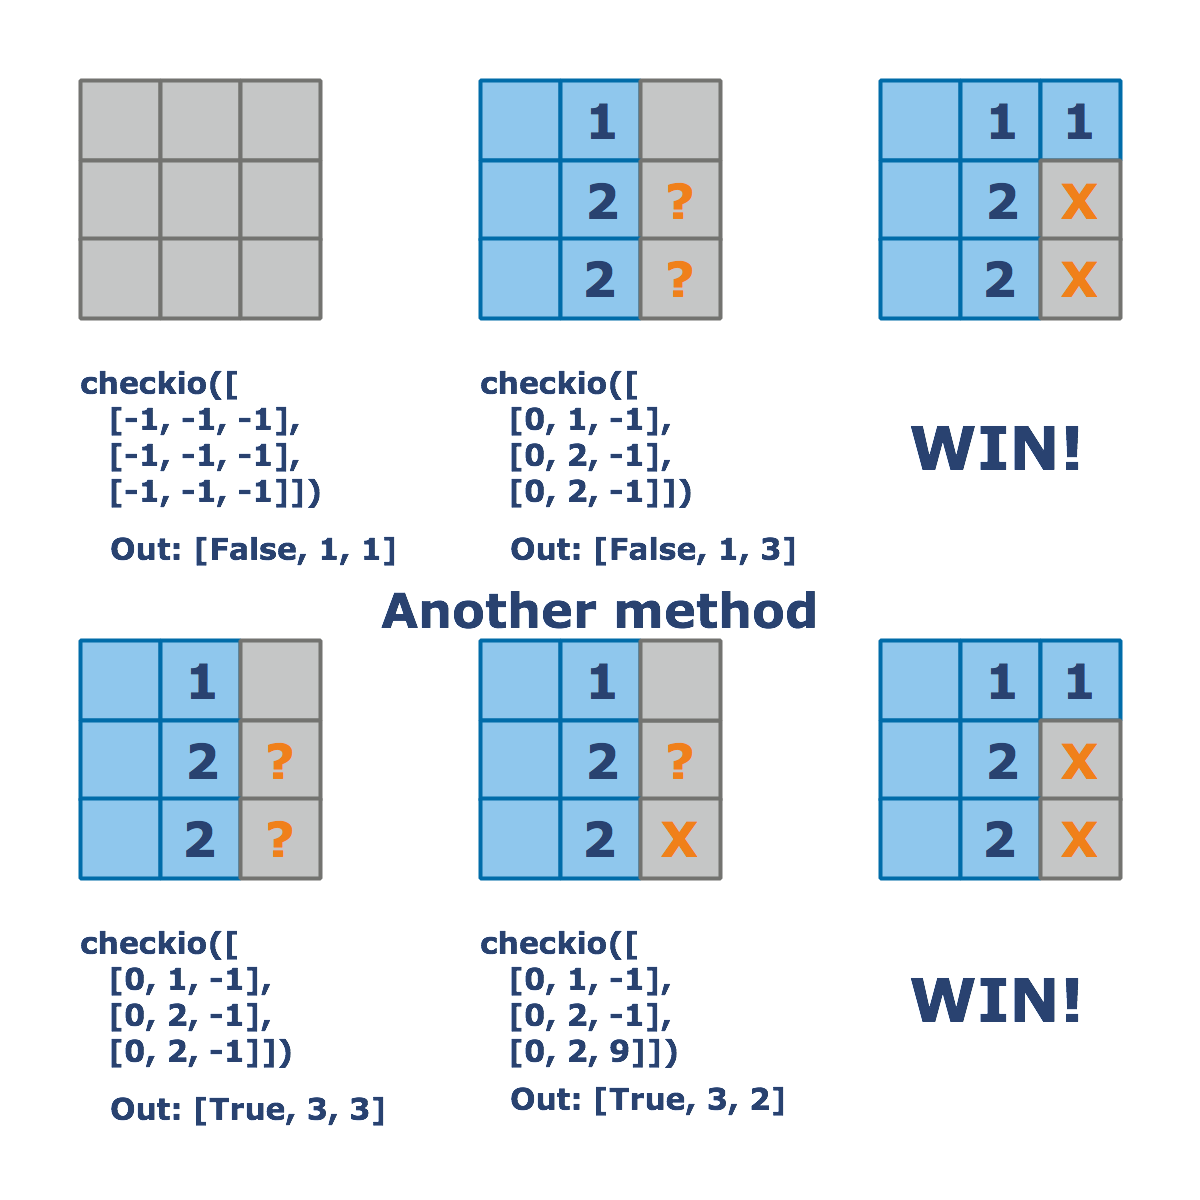
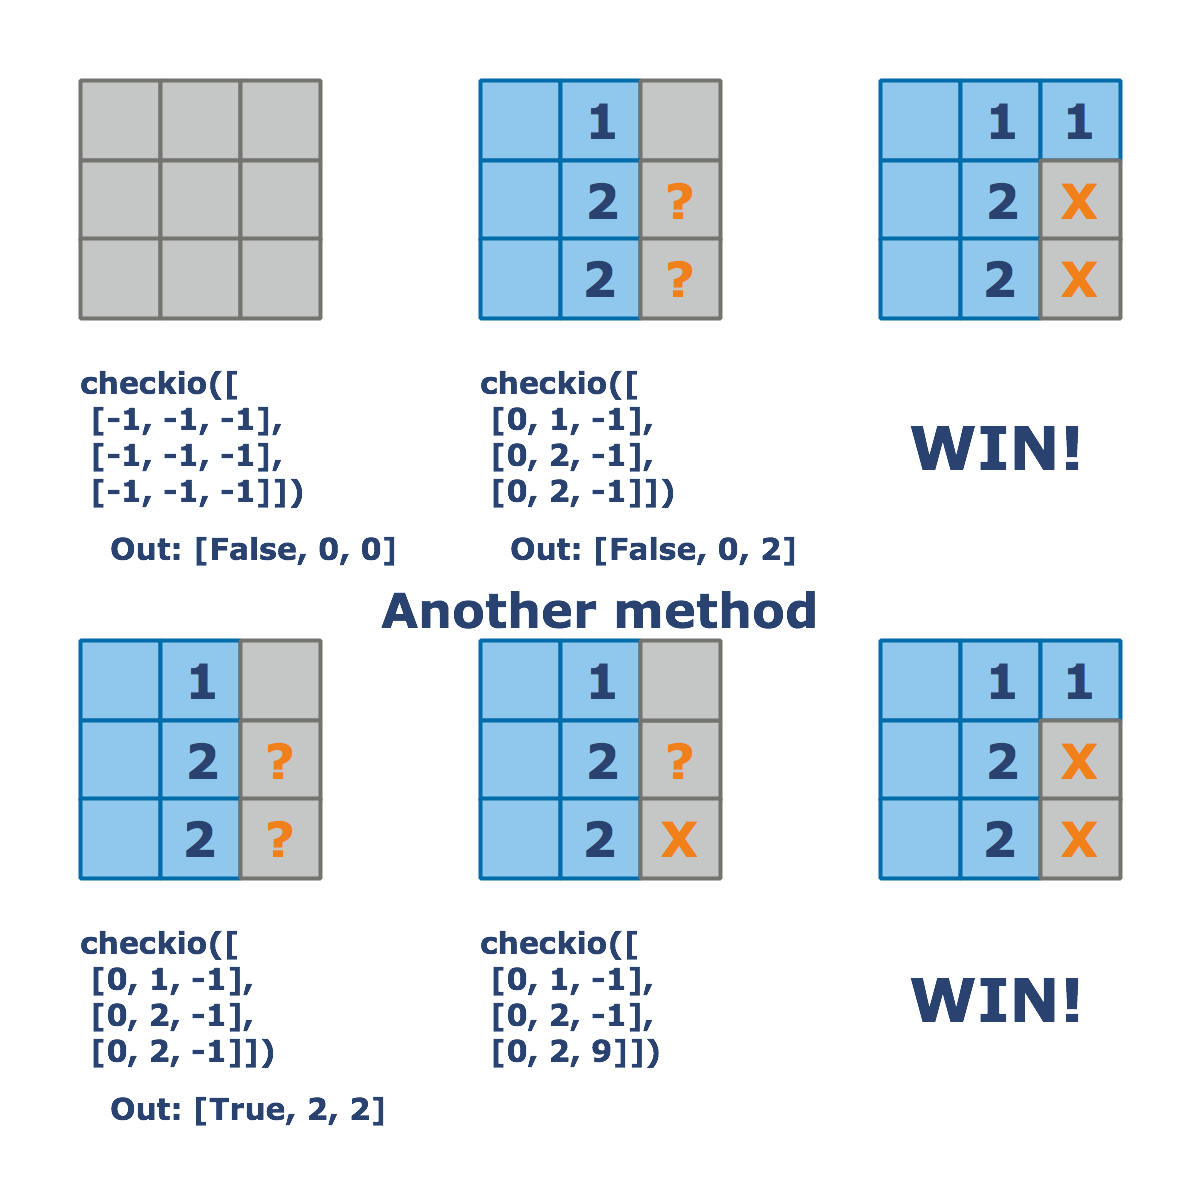
Fix counting from zero

diff --git a/info/task_description.html b/info/task_description.html
@@ -108,7 +108,7 @@
     number of mines surrounding the cell.
     Your checkio function must return a tuple or a list of three values. The first value reflects whether there is a
     landmine on the following coordinates (true or false). The second and third values are the coordinates in the
-    passed map (map[i][j]). <strong>Coordinates is counted from 1</strong> (not from zero as in array).
+    passed map (map[i][j]).
 </p>
 
 <p style="text-align: center;">
@@ -141,7 +141,7 @@
     [-1, -1, -1, -1, -1, -1, -1, -1, -1, -1],
     [-1, -1, -1, -1, -1, -1, -1, -1, -1, -1],
     [-1, -1, -1, -1, -1, -1, -1, -1, -1, -1],
-])  # [False, 1, 1]
+])  # [False, 0, 0]
 checkio([
     [0, 2, -1, -1, -1, -1, -1, -1, -1, -1],
     [0, 2, -1, -1, -1, -1, -1, -1, -1, -1],
@@ -153,5 +153,5 @@ checkio([
     [2, 1, -1, -1, -1, -1, -1, -1, -1, -1],
     [-1, -1, -1, -1, -1, -1, -1, -1, -1, -1],
     [-1, -1, -1, -1, -1, -1, -1, -1, -1, -1],
-])  # [True, 1, 3]</pre>
+])  # [True, 0, 2]</pre>
 </div>

diff --git a/editor/animation/init.js b/editor/animation/init.js
@@ -126,11 +126,11 @@ requirejs(['ext_editor_1', 'jquery_190', 'raphael_210'],
                 for (var row = 0; row < cellN; row++) {
                     paper.text(3 * x0 + row * cellSize + cellSize / 2,
                         fullSize - 4 * y0 - cellN * cellSize + cellSize / 2,
-                        String(row + 1)
+                        String(row)
                     ).attr(attrSign);
                     paper.text(cellSize / 2,
                         fullSize - y0 - (cellN - row) * cellSize + cellSize / 2,
-                        String(row + 1)
+                        String(row)
                     ).attr(attrSign);
                     var rowSet = paper.set();
                     for (var col = 0; col < cellN; col++) {

diff --git a/verification/referee.py b/verification/referee.py
@@ -34,20 +34,20 @@ def process_referee(referee_data, user_result):
     if not isinstance(is_mine, bool) or not isinstance(row, int) or not isinstance(col, int):
         referee_data.update({"result": False, "result_addon": "Result list format is [bool, int, int]"})
         return referee_data
-    if 10 < row or 1 > row or 10 < col or 1 > col:
+    if 10 <= row or 0 > row or 10 <= col or 0 > col:
         referee_data.update({"result": False, "result_addon": "You gave wrong coordinates."})
         return referee_data
-    if input_map[row - 1][col - 1] != -1:
+    if input_map[row][col] != -1:
         referee_data.update({"result": False, "result_addon": "You tried to uncover or mark already opened cell."})
         return referee_data
-    if is_mine and not mine_map[row - 1][col - 1]:
+    if is_mine and not mine_map[row][col]:
         referee_data.update({"result": False, "result_addon": "You marked wrong cell."})
         return referee_data
-    if not is_mine and mine_map[row - 1][col - 1]:
+    if not is_mine and mine_map[row][col]:
         referee_data.update({"result": False, "result_addon": "You uncovered a mine. BANG!"})
         return referee_data
     if is_mine:
-        input_map[row - 1][col - 1] = 9
+        input_map[row][col] = 9
         referee_data.update({"result": True, "result_addon": "Next move", "input": input_map})
         return referee_data
     else:
@@ -61,12 +61,12 @@ def build_map(input_map, mine_map, row, col):
     while opened:
         i, j = opened.pop(0)
         neighs = [(i + x, j + y) for x, y in [(-1, -1), (-1, 0), (-1, 1), (0, -1), (0, 1), (1, -1), (1, 0), (1, 1)]
-                  if 0 < i + x < 11 and 0 < j + y < 11]
-        value = sum([mine_map[k - 1][l - 1] for k, l in neighs])
-        input_map[i - 1][j - 1] = value
+                  if 0 <= i + x < 10 and 0 <= j + y < 10]
+        value = sum([mine_map[k][l] for k, l in neighs])
+        input_map[i][j] = value
         if not value:
             for k, l in neighs:
-                if input_map[k - 1][l - 1] == -1 and (k, l) not in opened:
+                if input_map[k][l] == -1 and (k, l) not in opened:
                     opened.append((k, l))
     return input_map
 
